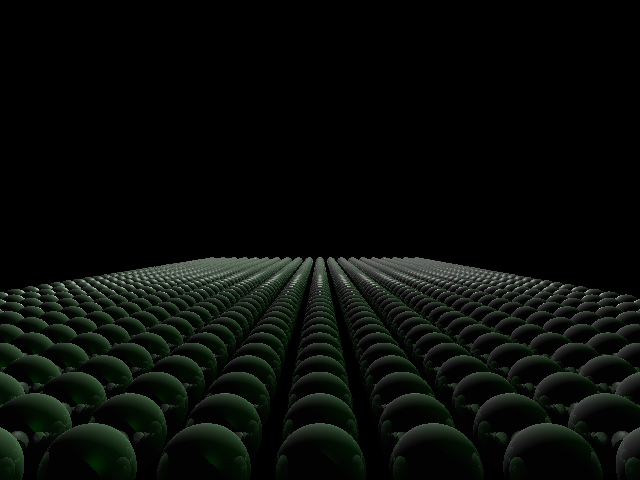
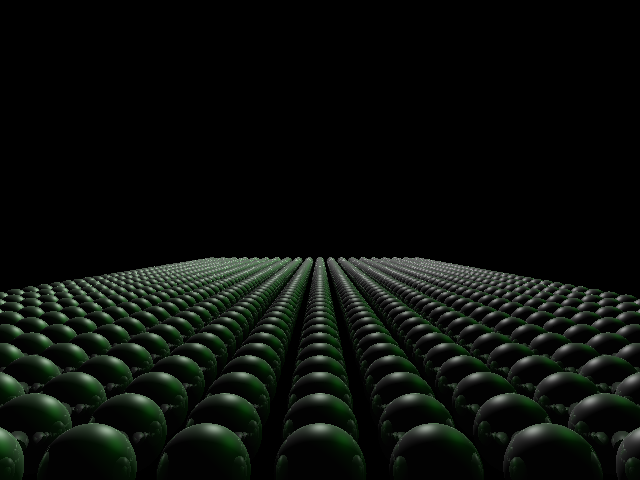
Fix specular lighting, completely working
Fixed the specular lighting by normalizing both the view direction and light direction, adding them, then normalizing the result. Before I was adding the vectors then normalizing the result. Was able to complete the assignment with this build.

diff --git a/RayTracer/main.cpp b/RayTracer/main.cpp
@@ -18,34 +18,7 @@
 #include "Shape.h"
 
 #pragma comment(lib, "Shlwapi.lib")
-
-SceneMetaData createSceneMetaData(const std::string& sceneFilePath);
-inline bool modeIs(Mode mode);
-inline void removeFeature(Feature feature);
-inline void addFeature(Feature feature);
-inline bool featureIsActive(Feature requestedFeature);
-inline bool debugIsActive(Debug requestedDebug);
-std::string getEnabledFeaturesAsString();
-std::string getEnabledDebugAsString();
-float calculateDiffuseLighting(const glm::vec3& normal, const glm::vec3& objToLightDir);
-float calculateSpecularLighting(const Material& objMat, const glm::vec3& normal, const glm::vec3& halfAngle);
-float calculateAttenuation(const glm::vec3& attenuation, float distance);
-Color calculateLightingColor(const Scene& scene, const glm::vec3& intersectPoint, const glm::vec3& intersectNormal, const Material& objMat, const glm::vec3& viewPoint);
-Color computePixelColor(const Ray& ray, const Scene& scene, int currentDepth, Material baseObjMat = Material());
-void createPerformanceReport(const SceneMetaData& metaData, const std::string& outputFileName, const Scene& scene, const time_t& totalTimeInSeconds, int pixelsProcessed);
-void createRender(const SceneMetaData& sceneFileData, std::string outputFileName = "");
-void createAllDebugRendersForScene(const SceneMetaData& metaData);
-void createAllFeatureRendersForScene(const SceneMetaData& metaData);
-void createAllRendersForScene(const SceneMetaData& metaData);
-void createAllFeatureRendersForScene(const std::string& sceneFile);
-void createAllDebugRendersForScene(const std::string& sceneFile);
-void createAllRendersForScene(const std::string& sceneFile);
-
-SceneMetaData createSceneMetaData(const std::string& sceneFilePath) {
-	SceneMetaData metaData(sceneFilePath, PathFindFileName(sceneFilePath.c_str()));
-	return metaData;
-}
-
+float totalSpecularIntensity;
 enum class Debug {
 	//Debug flags aren't assigned numbers to make them easier to iterate through
 	DIFFUSE_LIGHT_INTENSITY,
@@ -70,10 +43,37 @@ enum class Mode {
 	BENCHMARK,
 	NONE
 };
-//
+
+SceneMetaData createSceneMetaData(const std::string& sceneFilePath);
+inline bool modeIs(Mode mode);
+inline void removeFeature(Feature feature);
+inline void addFeature(Feature feature);
+inline bool featureIsActive(Feature requestedFeature);
+inline bool debugIsActive(Debug requestedDebug);
+std::string getEnabledFeaturesAsString();
+std::string getEnabledDebugAsString();
+float calculateDiffuseLighting(const glm::vec3& normal, const glm::vec3& objToLightDir);
+float calculateSpecularLighting(const Material& objMat, const glm::vec3& normal, const glm::vec3& halfAngle);
+float calculateAttenuation(const glm::vec3& attenuation, float distance);
+Color calculateLightingColor(const Scene& scene, const glm::vec3& intersectPoint, const glm::vec3& intersectNormal, const Material& objMat, const glm::vec3& viewPoint);
+Color computePixelColor(const Ray& ray, const Scene& scene, int currentDepth, Material baseObjMat);
+void createPerformanceReport(const SceneMetaData& metaData, const std::string& outputFileName, const Scene& scene, const time_t& totalTimeInSeconds, int pixelsProcessed);
+void createRender(const SceneMetaData& sceneFileData, std::string outputFileName);
+void createAllDebugRendersForScene(const SceneMetaData& metaData);
+void createAllFeatureRendersForScene(const SceneMetaData& metaData);
+void createAllRendersForScene(const SceneMetaData& metaData);
+void createAllFeatureRendersForScene(const std::string& sceneFile);
+void createAllDebugRendersForScene(const std::string& sceneFile);
+void createAllRendersForScene(const std::string& sceneFile);
+
+SceneMetaData createSceneMetaData(const std::string& sceneFilePath) {
+	SceneMetaData metaData(sceneFilePath, PathFindFileName(sceneFilePath.c_str()));
+	return metaData;
+}
+
 std::unordered_map<Debug, std::string> debugNames({ { Debug::DIFFUSE_LIGHT_INTENSITY, "diffuse_intensity" },{ Debug::SPECULAR_LIGHT_INTENSITY, "specular_intensity" },{ Debug::NORMAL_MAP, "normals" },{ Debug::PRIMARY_INTERSECTION_MAP, "primary_intersect" },{ Debug::SHADOW_MAP, "shadow_intersect" },{Debug::LIGHT_DIRECTION_MAP, "light_direction_map"}, { Debug::NONE, "none" } });
 std::unordered_map<Feature, std::string> featureNames({ { Feature::DIFFUSE_LIGHTING, "diffuse" }, {Feature::SPECULAR_LIGHTING, "specular"}, {Feature::REFLECTIONS, "reflections"}, {Feature::SHADOWS, "shadows"},{ Feature::KEEP_TIME, "time" },{ Feature::REPORT_PERFORMANCE, "reporting" } });
-int featureFlags = (int)Feature::DIFFUSE_LIGHTING | (int)Feature::SHADOWS | (int)Feature::SPECULAR_LIGHTING | (int)Feature::KEEP_TIME | (int)Feature::REPORT_PERFORMANCE | (int) Feature::REFLECTIONS;
+int featureFlags = (int)Feature::DIFFUSE_LIGHTING | (int)Feature::SHADOWS | (int)Feature::SPECULAR_LIGHTING | (int)Feature::KEEP_TIME | (int)Feature::REPORT_PERFORMANCE | (int)Feature::REFLECTIONS;
 Debug debugFlag = Debug::NONE;
 Mode currentMode = Mode::BENCHMARK;
 //spheres, triangles, file reading, shadow calculations, reflection calculations, pixel color calculations
@@ -176,7 +176,7 @@ Color calculateLightingColor(const Scene& scene, const glm::vec3& intersectPoint
 			lightDir = glm::vec3(light.location);
 			atten = 1.0f;
 		}
-		Ray ray(intersectPoint, lightDir);
+		Ray ray(intersectPoint, glm::normalize(lightDir));
 		Intersection intersect = scene.findClosestIntersection(ray);
 		//Differentiate directional and point lights when calculating ray direction
 		//|| intersect.distAlongRay > glm::length(lightRayDir)
@@ -186,8 +186,9 @@ Color calculateLightingColor(const Scene& scene, const glm::vec3& intersectPoint
 			//ray.origin
 			glm::vec3 eyeDir = viewPoint - intersectPoint;
 			//glm::vec3 reflectDir = glm::normalize(lightDir + 2.0f*glm::dot(-lightDir, intersectNormal))*intersectNormal;
-			glm::vec3 halfAngle = normalize(lightDir + eyeDir);
+			glm::vec3 halfAngle = glm::normalize(glm::normalize(lightDir) + glm::normalize(eyeDir));
 			float specularLightIntensity = calculateSpecularLighting(objMat, intersectNormal, halfAngle);
+			totalSpecularIntensity += specularLightIntensity;
 			if (debugIsActive(Debug::DIFFUSE_LIGHT_INTENSITY)) {
 				colorFromLights += Color(diffuseLightIntensity, diffuseLightIntensity, diffuseLightIntensity);
 			}
@@ -232,12 +233,12 @@ Color computePixelColor(const Ray& ray, const Scene& scene, int currentDepth, Ma
 			}
 			else {
 				Color lightColor = calculateLightingColor(scene, Camera::createPointFromRay(ray, closestIntersect.distAlongRay), closestIntersect.intersectNormal, closestIntersect.mat, ray.origin);
-				Ray reflectRay(Camera::createPointFromRay(ray, closestIntersect.distAlongRay), ray.dir - 2.0f*glm::dot(ray.dir, closestIntersect.intersectNormal)*closestIntersect.intersectNormal);
+				Ray reflectRay(Camera::createPointFromRay(ray, closestIntersect.distAlongRay), glm::normalize(ray.dir - 2.0f*glm::dot(ray.dir, closestIntersect.intersectNormal)*closestIntersect.intersectNormal));
 				if (featureIsActive(Feature::REFLECTIONS)) {
 					if (currentDepth == 0) {
 						baseObjMat = closestIntersect.mat;
 					}
-					return lightColor + baseObjMat.specular*computePixelColor(reflectRay, scene, ++currentDepth, closestIntersect.mat);	
+					return lightColor + closestIntersect.mat.specular*computePixelColor(reflectRay, scene, ++currentDepth, closestIntersect.mat);	
 				}
 				else {
 					return lightColor;
@@ -398,7 +399,7 @@ void createAllRendersForScene(const std::string& sceneFile) {
 }
 
 int main(int argc, char* argv[]) {
-	SceneMetaData metaData = createSceneMetaData("final_scenes/scene4-specular.test");
+	SceneMetaData metaData = createSceneMetaData("test_scenes/scene3_light.test");
 	createRender(metaData);
 	//createAllRendersForScene(metaData);
 	std::cout << "Finished Rendering" << std::endl;

diff --git a/RayTracer/AABB.cpp b/RayTracer/AABB.cpp
@@ -53,19 +53,19 @@ Intersection AABB::intersect(const Ray& ray) const {
 	// Any component of direction could be 0!
 	// Address this by using a small number, close to
 	// 0 in case any of directions components are 0
-	float t1 = (min.x - ray.origin.x) / (glm::epsilonEqual(ray.dir.x, 0.0f, 0.0001f) ? 0.00001f : ray.dir.x);
-	float t2 = (max.x - ray.origin.x) / (glm::epsilonEqual(ray.dir.x, 0.0f, 0.0001f) ? 0.00001f : ray.dir.x);
-	float t3 = (min.y - ray.origin.y) / (glm::epsilonEqual(ray.dir.y, 0.0f, 0.0001f) ? 0.00001f : ray.dir.y);
-	float t4 = (max.y - ray.origin.y) / (glm::epsilonEqual(ray.dir.y, 0.0f, 0.0001f) ? 0.00001f : ray.dir.y);
-	float t5 = (min.z - ray.origin.z) / (glm::epsilonEqual(ray.dir.z, 0.0f, 0.0001f) ? 0.00001f : ray.dir.z);
-	float t6 = (max.z - ray.origin.z) / (glm::epsilonEqual(ray.dir.z, 0.0f, 0.0001f) ? 0.00001f : ray.dir.z);
+	float t1 = (min.x - ray.origin.x) / (glm::epsilonEqual(ray.dir.x, 0.0f, 0.00001f) ? 0.00001f : ray.dir.x);
+	float t2 = (max.x - ray.origin.x) / (glm::epsilonEqual(ray.dir.x, 0.0f, 0.00001f) ? 0.00001f : ray.dir.x);
+	float t3 = (min.y - ray.origin.y) / (glm::epsilonEqual(ray.dir.y, 0.0f, 0.00001f) ? 0.00001f : ray.dir.y);
+	float t4 = (max.y - ray.origin.y) / (glm::epsilonEqual(ray.dir.y, 0.0f, 0.00001f) ? 0.00001f : ray.dir.y);
+	float t5 = (min.z - ray.origin.z) / (glm::epsilonEqual(ray.dir.z, 0.0f, 0.00001f) ? 0.00001f : ray.dir.z);
+	float t6 = (max.z - ray.origin.z) / (glm::epsilonEqual(ray.dir.z, 0.0f, 0.00001f) ? 0.00001f : ray.dir.z);
 
 	float tmin = std::max(std::max(std::min(t1, t2), std::min(t3, t4)), std::min(t5, t6));
 	float tmax = std::min(std::min(std::max(t1, t2), std::max(t3, t4)), std::max(t5, t6));
 
 	// if tmax < 0, ray is intersecting AABB
 	// but entire AABB is behing it's origin
-	if (tmax < 0) {
+	if (tmax < 0.0001) {
 		return Intersection();
 	}
 
@@ -76,7 +76,7 @@ Intersection AABB::intersect(const Ray& ray) const {
 	float t_result = tmin;
 
 	// If tmin is < 0, tmax is closer
-	if (tmin < 0.0f) {
+	if (tmin < 0.0001f) {
 		t_result = tmax;
 	}
 

diff --git a/RayTracer/Sphere.cpp b/RayTracer/Sphere.cpp
@@ -59,27 +59,28 @@ bool Sphere::isInside(const AABB& box) const {
 
 Intersection Sphere::intersect(const Ray& rawRay) const {
 	Ray ray(glm::inverse(transform) * glm::vec4(rawRay.origin, 1.0f), glm::normalize(glm::inverse(transform) * glm::vec4(rawRay.dir, 0.0f)));
-	float a = glm::dot(ray.dir, ray.dir);
-	float b = 2.0f * glm::dot(ray.dir, (ray.origin - center));
+	glm::vec3 normalRayDir = glm::normalize(ray.dir);
+	float a = glm::dot(normalRayDir, normalRayDir);
+	float b = 2.0f * glm::dot(normalRayDir, (ray.origin - center));
 	float c = glm::dot((ray.origin - center), (ray.origin - center)) - glm::pow(radius, 2.0f);
 	float discrim = calculateDiscriminant(a, b, c);
-	if (discrim < 0.0000001f) {
+	if (discrim < 0.0f) {
 		return Intersection();
 	}
 	float x1 = (-b + glm::sqrt(discrim)) / 2.0f * a;
 	float x2 = (-b - glm::sqrt(discrim)) / 2.0f * a;
 	float t = std::min(x1, x2);
-	if (t < 0.005f) {
+	if (t < 0.001f) {
 		t = std::max(x1, x2);
-		if (t < 0.005f) {
+		if (t < 0.001f) {
 			return Intersection();
 		}
 	}
 	glm::vec3 transfPoint = ray.origin + ray.dir * t;
-	glm::vec3 normal = glm::transpose(glm::inverse(transform)) * glm::vec4(transfPoint - center, 0.0f);
+	glm::vec3 normal = glm::transpose(glm::inverse(transform)) * glm::vec4(2.0f*(transfPoint - center), 0.0f);
 
 	glm::vec3 finalPoint = transform * glm::vec4(transfPoint, 1.0f);
-	return Intersection(glm::distance(finalPoint, rawRay.origin), glm::normalize(normal));
+	return Intersection(glm::distance(finalPoint, rawRay.origin), normal);
 }
 
 float Sphere::calculateDiscriminant(float a, float b, float c) const {

diff --git a/RayTracer/Triangle.cpp b/RayTracer/Triangle.cpp
@@ -147,7 +147,7 @@ Intersection Triangle::intersect(const Ray& ray) const {
 	glm::vec3 e2 = v1 - v3;
 	glm::vec3 e3 = v2 - v1;
 	glm::vec3 planeNormal = calculatePlaneNormal();
-	if (!glm::epsilonEqual(glm::dot(ray.dir, planeNormal), 0.0f, 0.00001f)) {
+	if (!glm::epsilonEqual(glm::dot(ray.dir, planeNormal), 0.0f, 0.0001f)) {
 		float d = glm::dot(v1, planeNormal);
 		float t = (d - glm::dot(ray.origin, planeNormal)) / glm::dot(ray.dir, planeNormal);
 		if (t < 0.0001f) {
@@ -169,6 +169,6 @@ Intersection Triangle::intersect(const Ray& ray) const {
 }
 
 glm::vec3 Triangle::calculatePlaneNormal() const {
-	return glm::cross(v2 - v1, v3 - v1);
+	return glm::normalize(glm::cross(v2 - v1, v3 - v1));
 	//return glm::cross(v3 - v2, v1 - v3);
 }

diff --git a/RayTracer/Camera.cpp b/RayTracer/Camera.cpp
@@ -21,13 +21,13 @@ Ray Camera::createRayToPixel(float i, float j, int width, int height) const {
 	glm::vec3 v = glm::normalize(glm::cross(w, u));
 	float alpha = glm::tan(glm::radians(fovy / 2.0f)) * (static_cast<float>(width)/height) * ((i - (width/2.0f))/(width/2.0f));
 	float beta = glm::tan(glm::radians(fovy / 2.0f)) * (((height / 2.0f) - j) / (height / 2.0f));
-	glm::vec3 rayDir = glm::normalize((alpha * u) + (beta * v) - w);
+	glm::vec3 rayDir = (alpha * u) + (beta * v) - w;
 
 	return Ray(lookFrom, rayDir);
 }
 
 glm::vec3 Camera::createPointFromRay(const Ray& ray, float t) {
-	return ray.origin + ray.dir*t;
+	return ray.origin + glm::normalize(ray.dir)*t;
 }
 
 const glm::vec3& Camera::getEye() const {

diff --git a/RayTracer/SceneObjects.hpp b/RayTracer/SceneObjects.hpp
@@ -8,7 +8,7 @@
 #include <string>
 
 struct Ray {
-	Ray(const glm::vec3& org, const glm::vec3& dir) : origin(org), dir(glm::normalize(dir)) {}
+	Ray(const glm::vec3& org, const glm::vec3& dir) : origin(org), dir(dir) {}
 	glm::vec3 dir;
 	glm::vec3 origin;
 };
